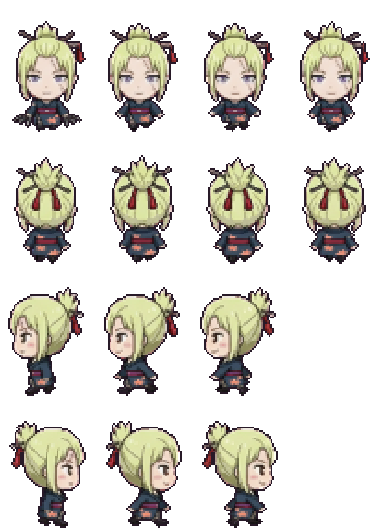
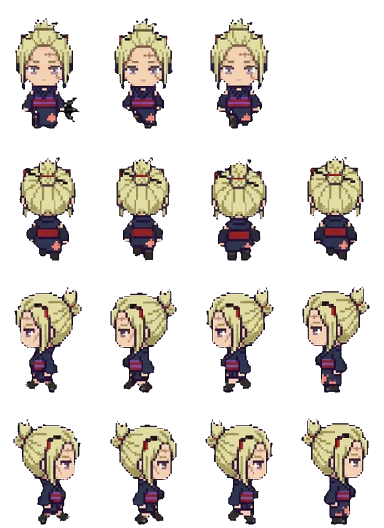
Redraw Tsukuyo in the shared pixel style
Claude-Session: https://claude.ai/code/session_01KaPsBYLrtbRfMYNG2xeBCK

diff --git a/docs/app.js b/docs/app.js
@@ -75,7 +75,7 @@ function spr(cat, k, col, sc) {
   return `<div class="clip" style="width:${it[2] * sc}px;height:${it[3] * sc}px;POS"><img class="px" src="assets/decor/${cat}.png" alt="" style="width:${S.sw * sc}px;height:${S.sh * sc}px;margin-left:${-col * S.cw * sc}px;margin-top:${-i * S.ch * sc}px"></div>`;
 }
 const icon = (k, sz) => `<span class="itm" style="width:${sz}px;height:${sz}px"><img class="px" src="assets/ui/items.png" alt="" style="width:${IT.length * sz}px;height:${sz}px;margin-left:${-ITM[k].i * sz}px"></span>`;
-const face = (id, w) => { const s = w / 96; return `<img class="px" src="assets/ch/${id}.webp?v=76" alt="" style="position:absolute;width:${384 * s}px;height:${528 * s}px;left:${-(96 * s - w) / 2}px;top:0;max-width:none">`; };
+const face = (id, w) => { const s = w / 96; return `<img class="px" src="assets/ch/${id}.webp?v=77" alt="" style="position:absolute;width:${384 * s}px;height:${528 * s}px;left:${-(96 * s - w) / 2}px;top:0;max-width:none">`; };
 
 // ---------- 저장 ----------
 let fb = null, user = null, S = null, saveT = null;
@@ -143,7 +143,7 @@ function sleepHTML(id, r, dy) {
   const pos = r.a && r.a[0] === 'bed' ? 'left:3%;bottom:20%' : r.b && r.b[0] === 'bed' ? 'right:3%;bottom:20%' : 'left:calc(50% - 44px);bottom:6%';
   const s = 36 / 96;
   return `<div style="position:absolute;width:88px;height:56px;${pos};z-index:${dy ? 4 : 5};${dy ? `transform:translate(12px,${dy}px)` : ''}"><div style="position:absolute;inset:0;filter:brightness(.22)">
-    <div style="position:absolute;left:11px;top:1px;width:36px;height:50px;overflow:hidden;transform:rotate(-90deg)"><img class="px" src="assets/ch/${id}.webp?v=76" alt="" style="width:${384 * s}px;height:${528 * s}px;max-width:none;margin-top:${-132 * s}px"></div>
+    <div style="position:absolute;left:11px;top:1px;width:36px;height:50px;overflow:hidden;transform:rotate(-90deg)"><img class="px" src="assets/ch/${id}.webp?v=77" alt="" style="width:${384 * s}px;height:${528 * s}px;max-width:none;margin-top:${-132 * s}px"></div>
     <div style="position:absolute;left:19px;top:19px;width:67px;height:29px;border:2px solid var(--ink);border-radius:8px 6px 4px 4px;background:#8ccff5;background-image:repeating-linear-gradient(90deg,transparent 0 10px,rgba(255,255,255,.5) 10px 13px)"></div></div>
     ${dy ? '' : '<span class="emo" style="left:8px;top:-22px;color:#5b6bd6">Z z z</span>'}</div>`;
 }
@@ -153,8 +153,8 @@ function roomHTML(id, o, scale) {
     <div class="floor" style="background-color:${PAL[r.fc][1]};background-image:${tileUrl('floor', r.fl)}"></div>
     ${slot('deco', r.dc, 'left:6%;top:6%')}${slot('furn', r.a, 'left:3%;bottom:20%')}${slot('furn', r.b, 'right:3%;bottom:20%')}${slot('prop', r.pr, 'left:28%;bottom:4%;z-index:2')}
     ${id && o.sleeping && g ? sleepHTML(g, r, -16) : ''}${id && o.sleeping ? sleepHTML(id, r) : ''}${id && o.job ? `<div style="position:absolute;left:50%;top:38%;transform:translateX(-50%);z-index:5;background:#fff;border:3px solid var(--ink);border-radius:10px;padding:6px 10px;font-size:11px;text-align:center;line-height:1.5"><img src="assets/ui/ic_job.png" alt="" style="width:18px;vertical-align:-4px"> ${WORK[id] ? WORK[id][1] : esc(JOB_NAME[id]) + ' 알바 중'}${g ? `<br><small>${esc(nameOf(g))}도 같이</small>` : ''}<br><b id="jobleft">${timeLeft(o.job.until)}</b></div>` : ''}
-    ${id ? `<div class="shadow" id="shd" ${o.sleeping || o.job ? 'style="display:none"' : ''}></div><div class="man" id="man" ${o.sleeping || o.job ? 'style="display:none"' : ''}><img class="px" src="assets/ch/${id}.webp?v=76" alt="${esc(nameOf(id))}"></div><span class="emo" id="emo" hidden></span><span class="mumble" id="mum" hidden></span>` : ''}
-    ${g ? `<div class="shadow" id="gshd" ${hideG}></div><div class="man" id="gman" ${hideG}><img class="px" src="assets/ch/${g}.webp?v=76" alt="${esc(nameOf(g))}"></div><span class="emo" id="gemo" hidden></span><span class="mumble gmum" id="gmum" hidden></span>` : ''}
+    ${id ? `<div class="shadow" id="shd" ${o.sleeping || o.job ? 'style="display:none"' : ''}></div><div class="man" id="man" ${o.sleeping || o.job ? 'style="display:none"' : ''}><img class="px" src="assets/ch/${id}.webp?v=77" alt="${esc(nameOf(id))}"></div><span class="emo" id="emo" hidden></span><span class="mumble" id="mum" hidden></span>` : ''}
+    ${g ? `<div class="shadow" id="gshd" ${hideG}></div><div class="man" id="gman" ${hideG}><img class="px" src="assets/ch/${g}.webp?v=77" alt="${esc(nameOf(g))}"></div><span class="emo" id="gemo" hidden></span><span class="mumble gmum" id="gmum" hidden></span>` : ''}
     ${o.sleeping ? `<div class="night"></div><div class="sleepleft">쿨쿨 · 일어나기까지 <b id="sleepleft">${timeLeft(wakeAt(o)).replace(' 남음', '')}</b></div>` : ''}
   </div>`;
 }
@@ -167,7 +167,7 @@ function meterHTML(o) {
 const ic = (act, img, label, pressed) => `<button class="ic" data-act="${act}" ${pressed ? 'aria-pressed="true"' : ''}><img src="assets/ui/ic_${img}.png?v=2" alt="">${label}</button>`;
 
 let dropStyle = null; const cheat = {};
-const APP_V = 150, COUPONS = { NINOGUYA: 3000 };
+const APP_V = 151, COUPONS = { NINOGUYA: 3000 };
 // 쿠폰 입력 정리: 한글 자판 상태로 친 글자(ㅜㅑㅜㅐ혀ㅛㅁ)도 영어 자판 글자로 바꾸고, 대소문자·띄어쓰기·마침표는 무시해요
 const KEY = { ㄱ: 'r', ㄲ: 'R', ㄴ: 's', ㄷ: 'e', ㄸ: 'E', ㄹ: 'f', ㅁ: 'a', ㅂ: 'q', ㅃ: 'Q', ㅅ: 't', ㅆ: 'T', ㅇ: 'd', ㅈ: 'w', ㅉ: 'W', ㅊ: 'c', ㅋ: 'z', ㅌ: 'x', ㅍ: 'v', ㅎ: 'g',
   ㅏ: 'k', ㅐ: 'o', ㅑ: 'i', ㅒ: 'O', ㅓ: 'j', ㅔ: 'p', ㅕ: 'u', ㅖ: 'P', ㅗ: 'h', ㅘ: 'hk', ㅙ: 'ho', ㅚ: 'hl', ㅛ: 'y', ㅜ: 'n', ㅝ: 'nj', ㅞ: 'np', ㅟ: 'nl', ㅠ: 'b', ㅡ: 'm', ㅢ: 'ml', ㅣ: 'l',
@@ -407,7 +407,7 @@ function startTrip(k) {
   if (tg) lines[1] = `${nameOf(tg)}: ${withHim(sub(pick(GLX(tg).trip), o, c.n), tg)}`;
   const n = (FR[id] || [4, 4, 4, 4])[3], el = document.createElement('div'); el.className = 'tripview';
   el.innerHTML = `<div class="tsay"> </div><div class="tstage" style="background-image:url(assets/travel/${k}.png?v=2)"><div class="tplace">${esc(c.n)}</div>
-    <div class="twalker"><img class="px" src="assets/ch/${id}.webp?v=76" alt=""></div>${tg ? `<div class="twalker tgirl"><img class="px" src="assets/ch/${tg}.webp?v=76" alt=""></div>` : ''}<span class="emo tjoy">♪</span></div>
+    <div class="twalker"><img class="px" src="assets/ch/${id}.webp?v=77" alt=""></div>${tg ? `<div class="twalker tgirl"><img class="px" src="assets/ch/${tg}.webp?v=77" alt=""></div>` : ''}<span class="emo tjoy">♪</span></div>
     <div class="tbar"><i></i></div><button class="btn white tskip" data-tskip="1">바로 돌아오기</button>`;
   document.body.appendChild(el);
   const gimg = el.querySelector('.tgirl img'), gn = tg ? (FR[tg] || [4, 4, 4, 4])[3] : 1;
@@ -667,7 +667,7 @@ setInterval(() => { if (S && user) { tickTime(); save(); } }, 60000);
     if (nv > APP_V && !location.search.includes('u=' + nv)) { location.replace(location.pathname + '?u=' + nv); return; }
   } catch { }
   app.innerHTML = '<div class="start"><div class="egg"><div class="scr"></div></div><div class="note">불러오는 중....</div></div>';
-  const [c, t, f, it, mu, ct, tv, gl, sts] = await Promise.all(['data/chars.json', 'data/talk.json', 'data/frames.json', 'data/items.json', 'data/mumble.json', 'data/countries.json', 'data/travel.json', 'data/girls.json', 'data/sets.json'].map(u => fetch(u + '?v=150').then(r => r.ok ? r.json() : {})));
+  const [c, t, f, it, mu, ct, tv, gl, sts] = await Promise.all(['data/chars.json', 'data/talk.json', 'data/frames.json', 'data/items.json', 'data/mumble.json', 'data/countries.json', 'data/travel.json', 'data/girls.json', 'data/sets.json'].map(u => fetch(u + '?v=151').then(r => r.ok ? r.json() : {})));
   CH = c; CHM = Object.fromEntries(c.map(x => [x.id, x])); TALK = t; FR = f; IT = it; ITM = Object.fromEntries(it.map(x => [x.k, x])); MUM = mu; CTRY = ct; TRV = tv; GL = Array.isArray(gl) ? gl : []; SETS = Array.isArray(sts) ? sts : []; GLM = Object.fromEntries(GL.map(x => [x.id, x]));
   try { await initFirebase(); } catch (e) { console.warn('Firebase 연결 실패, 기기 저장으로', e); fb = null; }
   if (fb) {

diff --git a/docs/index.html b/docs/index.html
@@ -18,6 +18,6 @@
 <main id="app" aria-live="polite"></main>
 <div id="toast" role="status" hidden></div>
 <script src="firebase-config.js?v=3"></script>
-<script type="module" src="app.js?v=150"></script>
+<script type="module" src="app.js?v=151"></script>
 </body>
 </html>

diff --git a/tk_magenta.py b/tk_magenta.py
@@ -60,7 +60,7 @@ def strip_white(out):
     out[..., 3] = np.where(al, 255, 0); return out
 
 KEEP_LENS = {'saiki_v2'}   # 초록 렌즈 안경
-KEEP_PURPLE = {'nifuji'}   # 보라 넥타이처럼 분홍기 빼기에 지워지는 색이 있는 시트
+KEEP_PURPLE = {'nifuji', 'tsukuyo'}   # 보라 넥타이처럼 분홍기 빼기에 지워지는 색이 있는 시트
 STRIP = {'chiyo.png'}   # 흰 테두리가 있는 시트 (흰 테두리 덕분에 분홍기 빼기도 필요 없어요: 보라 눈이 지워지지 않게)
 def cells(path, cols=5, rows=4):
     global NO_DESPILL
